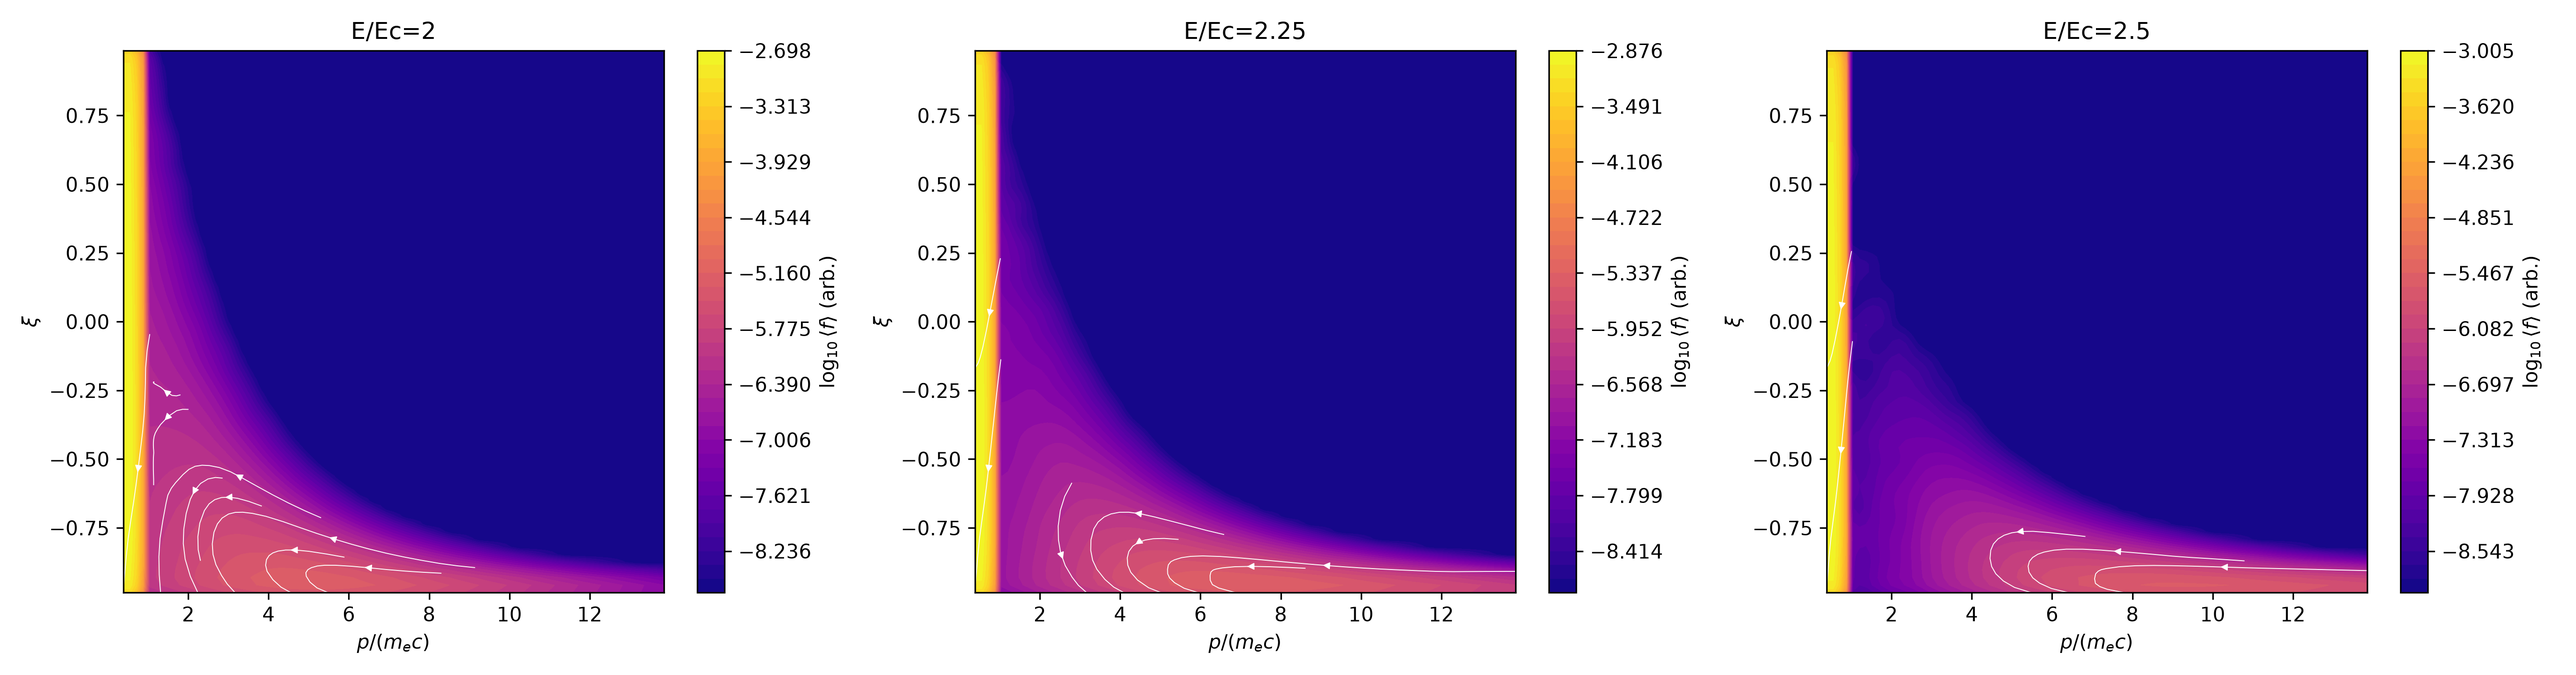
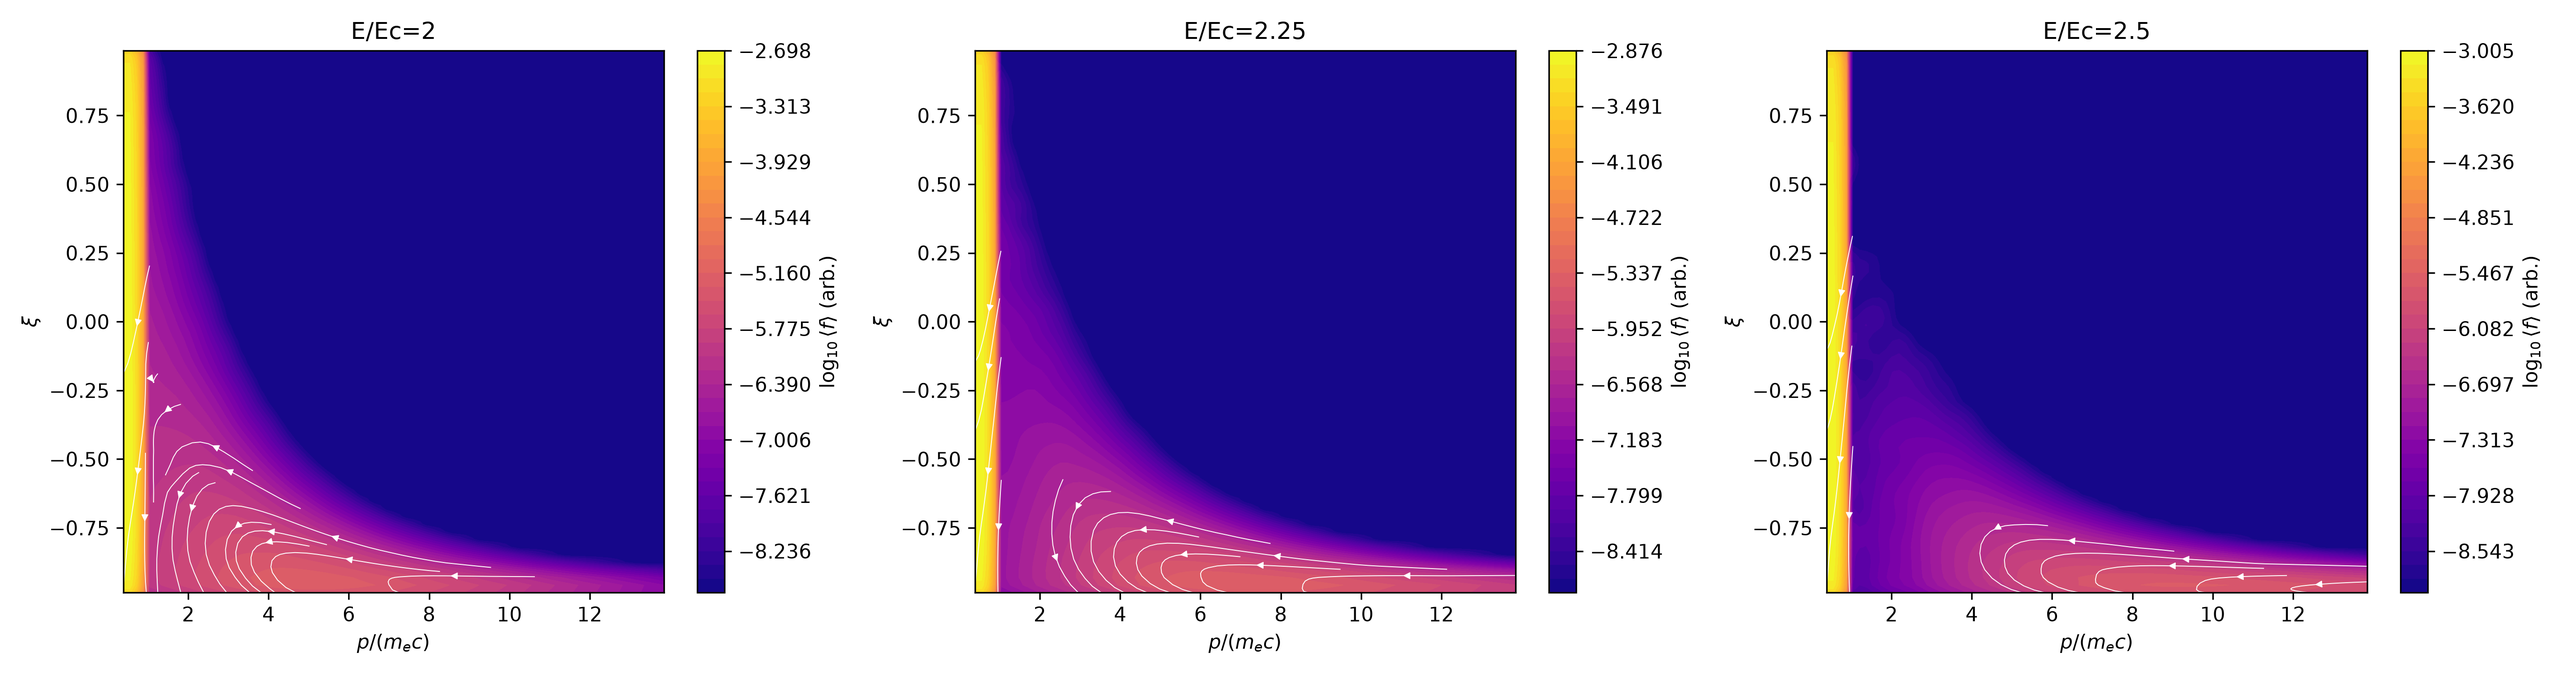
fix(benchmarks): densify flow streamlines

diff --git a/benchmarks/test_runaway_vortex.py b/benchmarks/test_runaway_vortex.py
@@ -951,7 +951,7 @@ def _write_particle_vortex_results(results, output_dir: Path):
                 u.T,
                 v.T,
                 color="white",
-                density=1.0,
+                density=1.6,
                 linewidth=0.45,
                 arrowsize=0.75,
                 minlength=0.2,
